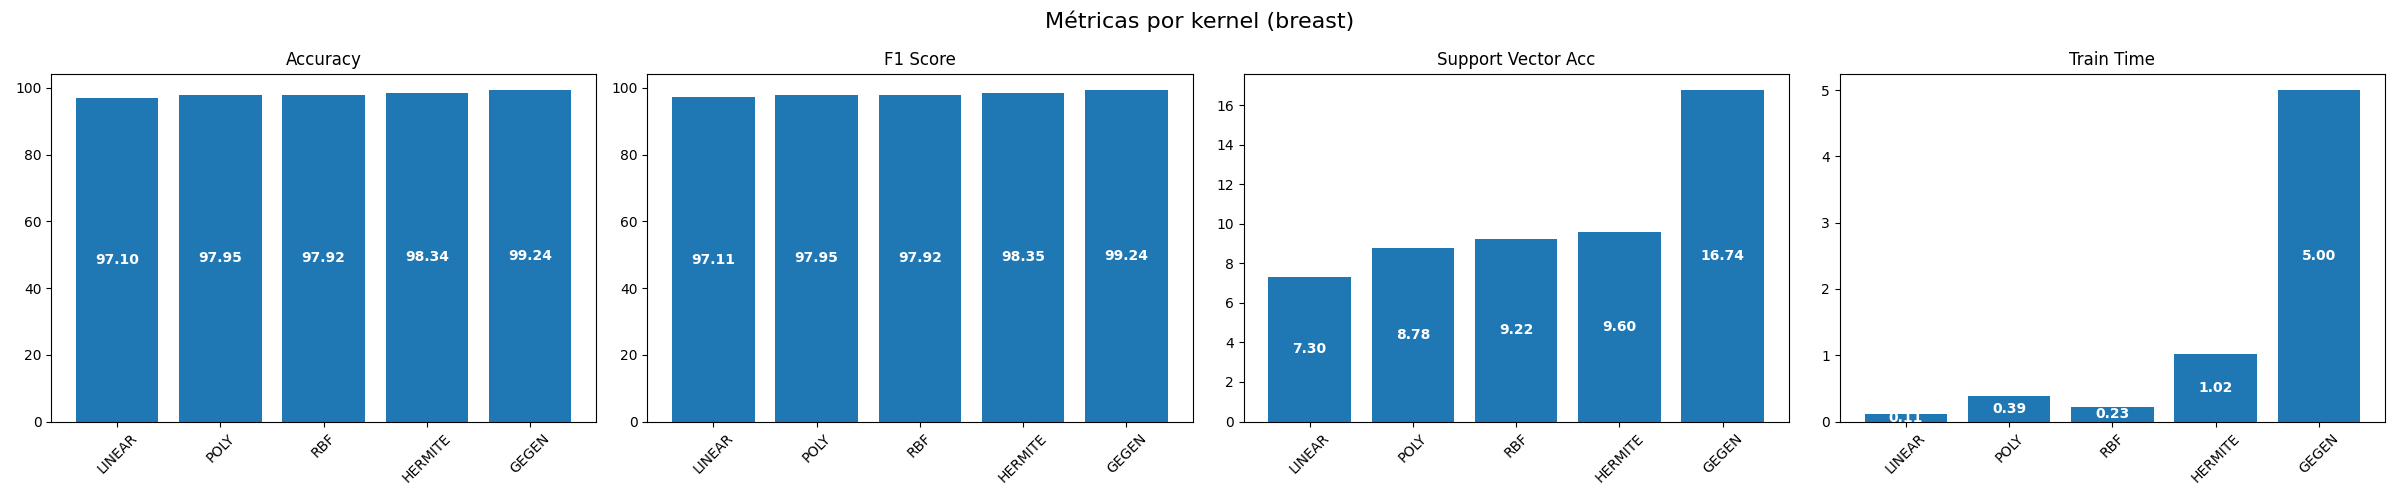
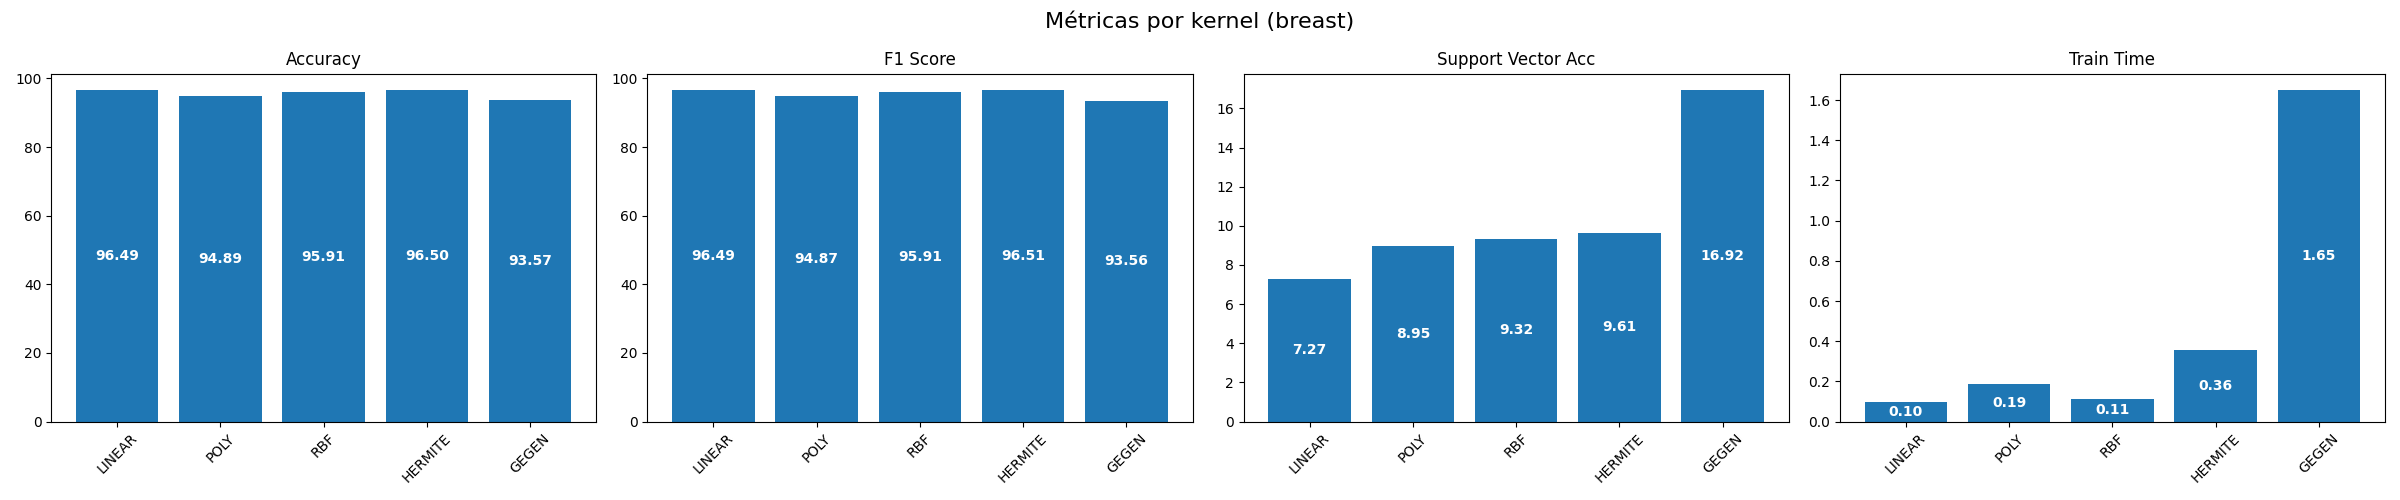
Fix scaling and transformation order -> scale -> PCA -> SVM

diff --git a/Model/train.py b/Model/train.py
@@ -41,14 +41,14 @@ def train_svm(
     cv_splitter = StratifiedKFold(n_splits=cv)
     support_props, accs, f1s = [], [], []
 
-    for train_idx, _ in cv_splitter.split(X, y):
+    for train_idx, test_idx in cv_splitter.split(X, y):
         X_tr, y_tr = X[train_idx], y[train_idx]
         pipe.fit(X_tr, y_tr)
 
         n_sup = pipe.named_steps['svc'].support_.shape[0]
         support_props.append(n_sup / len(X_tr) * 100)
 
-        X_val, y_val = X[~train_idx], y[~train_idx]
+        X_val, y_val = X[test_idx], y[test_idx]
         accs.append(pipe.score(X_val, y_val))
         f1s.append(f1_score(y_val, pipe.predict(X_val), average='weighted'))
 
